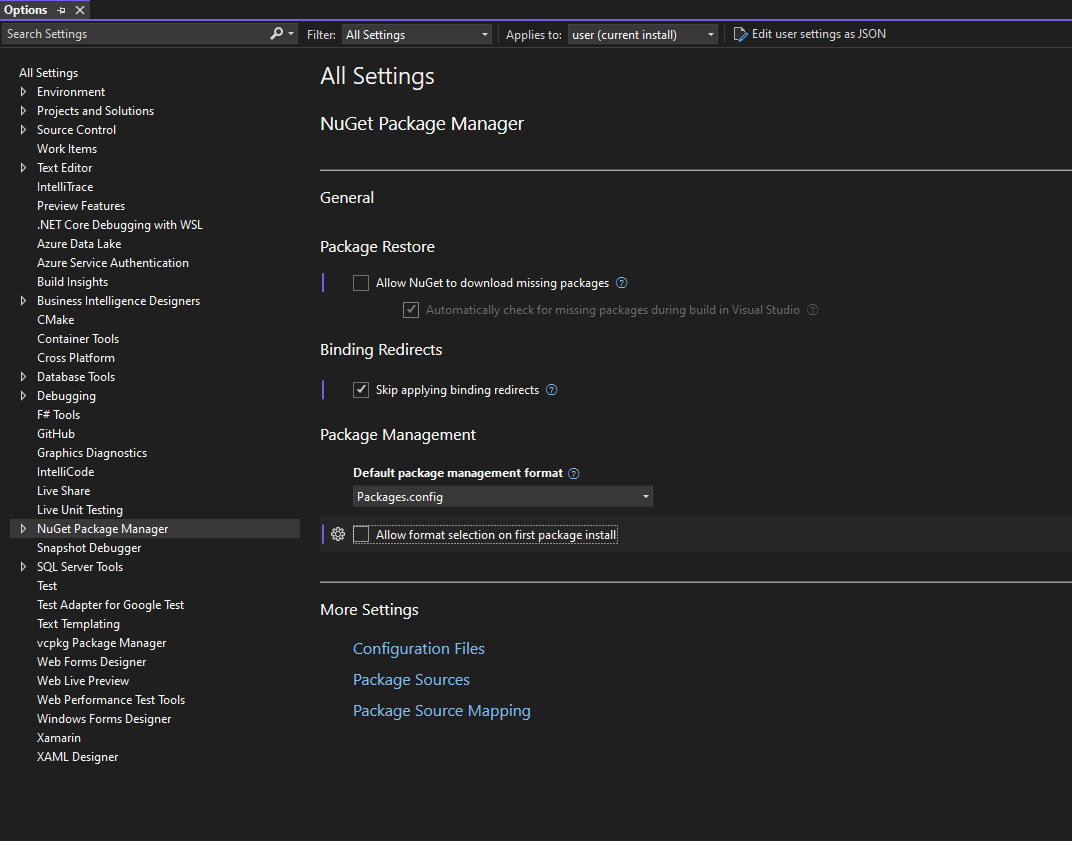
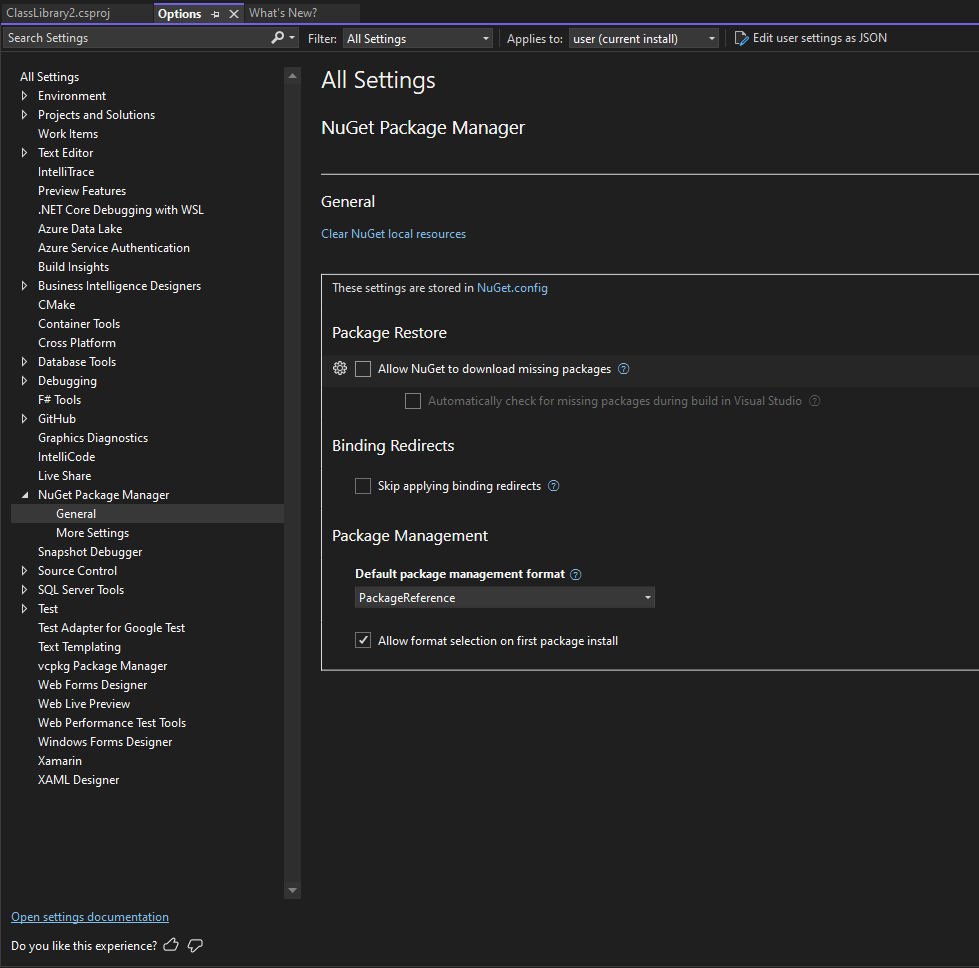
Mention Clear Locals command and add mockups/edits

diff --git a/accepted/2024/unified-vs-settings.md b/accepted/2024/unified-vs-settings.md
@@ -8,8 +8,8 @@
 
 <!-- One-paragraph description of the proposal. -->
 
-Visual Studio Options are moving to a new user interface called "Unified Settings".
-The Visual Studio (VS) IDE team is responsible for the UI controls, and individual product teams will maintain a JSON file declaring the structure and data types for settings in the IDE.
+Visual Studio Options are moving to a new user interface called "Unified Settings" (abbr. USX).
+The Visual Studio (VS) IDE team is responsible for the UI controls, and individual product teams will maintain a JSON file declaring the structure and data types for settings in the IDE in addition to any custom commands.
 
 ## Motivation
 
@@ -17,9 +17,10 @@ The Visual Studio (VS) IDE team is responsible for the UI controls, and individu
 
 The Visual Studio Editor team created Unified Settings to make the configuration experience have a Consistent UI, scoping capabilities, and the ability to share and sync settings across devices.
 A blog was published to expand on this motivation and collect feedback from the community, [Unified Settings: Share Your Feedback](https://devblogs.microsoft.com/visualstudio/unifiedsettings/).
+This is currently a VS Preview-only feature.
 
 For NuGet, the improved maintainability will reduce ad-hoc UI code and allow the team to focus on the effect of the settings, and not the UI around the settings.
-I expect significantly less usability and accessibility issues around NuGet's VS Options because of this standardized UI.
+The expectation is significantly less usability and accessibility issues around NuGet's VS Options because of this standardized UI.
 
 ## Explanation
 
@@ -28,20 +29,97 @@ I expect significantly less usability and accessibility issues around NuGet's VS
 <!-- Explain the proposal as if it were already implemented and you're teaching it to another person. -->
 <!-- Introduce new concepts, functional designs with real life examples, and low-fidelity mockups or  pseudocode to show how this proposal would look. -->
 
-NuGet's repository will maintain a `registration.json` file to declare all VS Settings, including localizible names, data types, default values, and any dependencies among the values of other settings.
+All of NuGet's legacy VS Options pages will be migrated to USX.
+The General page will be tackled first, and is the main scope for this spec.
 
-A prototype of the NuGet General Options page in Unified Settings is shown below.
-Note that the `Clear NuGet Cache` button is missing at this time.
-![Screenshot showing a prototype of the NuGet General Options page in Unified Settings](../../meta/resources/UnifiedSettings/general-prototype.png)
+Normally, USX manages user settings in a custom JSON settings file; however, NuGet will instead continue to use our custom `NuGet.Config` to store settings values.
+We will maintain interoperability with our backing store by implementing an External Settings API provided by the VS IDE team.
 
-Since NuGet uses a custom `nuget.config` to store settings values, a custom data store will be indicated by using an External Settings API provided by the VS IDE team.
+A mockup of the NuGet General Options page in Unified Settings is shown below.
+
+![Mockup showing a prototype of the NuGet General Options page in Unified Settings](../../meta/resources/UnifiedSettings/general-prototype.png)
+
+### Settings are stored in NuGet.Config
+
+Since the `NuGet.Config` is an external backing store, NuGet.Client can specify explanatory text and a hyperlink button that points to its location.
+The text shown in the mockup is "These settings are stored in NuGet.config".
+Pressing the hyperlink button on `NuGet.Config` will open the file in the VS editor.
+
+Given that there can be multiple `NuGet.Config` files, the plan for now is to have it open the first `NuGet.Config` which is closest to the solution, which would be the first file listed in the "Configuration Files" page of NuGet's legacy settings, today.
+
+#### Clear Local NuGet Resources
+
+The `Clear local NuGet resources` button from legacy options will be shown as a hyperlink button in USX under the root section's title ("General").
+
+Pressing the hyperlink button will open a modal dialog window indicating the status of the operation of clearing the resources from disk.
+The mockup below shows the button and the effect of pressing it:
+
+![Mockup showing the Clear local NuGet resources hyperlink button and the modal dialog which opens once pressed](../../meta/resources/UnifiedSettings/clear-command-dialog.png)
+
+#### Error messages
+
+When the `NuGet.Config` has an invalid value, the UI will show a blank selection, or unchecked checkbox, and will be accompanied by a simple error message indicating that the value in the backing store was somehow invalid.
+
+Any action taken inside the USX page will overwrite that invalid value in the backing store (`NuGet.Config`) according to `NuGet.Configuration`.
+
+For any fatal errors, such as unable to load the `NuGet.Config` at all due to parsing errors, or similar, then an error message will be shown under the "General" section label.
+
+#### Help icons
+
+Each UI element in USX can have a help link attached.
+In the mockup, these are shown as a circled `?` icon.
+Pressing one of these opens the relevant Documentation page, and is anchored to the corresponding section in the document.
 
 ### Technical explanation
 
 <!-- Explain the proposal in sufficient detail with implementation details, interaction models, and clarification of corner cases. -->
 
-### External API
-...
+### Registration
+
+The NuGet.Client repository will maintain a `registration.json` file to declare all VS Settings, including localizible names, data types, default values, command implementations, and any dependencies among the values of other settings.
+
+The `registration.json` will use the `"type": "external"` mode because our product stores configuration in a custom backing store: One or more `NuGet.Config` files.
+
+### Command: Clear Local Resources
+
+NuGet.Client will create a new modal dialog will be developed to indicate that the Clear Local Resources command is in-progress and has completed.
+The modal dialog will replace our WinForms controls that indicate the same information.
+
+Since USX doesn't support dynamically changing text blocks, the modal is the simplest and most effective form of UI we can adopt, while also allowing us to expand the capabilities of this command in VS in the future.
+
+The invocation of the `LocalsCommandRunner` which is supported by legacy VS settings will be adapted to a USX Command.
+A USX Command invokes a command in VS using the VS SDK and the extensible menu command system.
+Therefore, our Visual Studio Command Table (VSCT) file will be updated with a new command, which executes `LocalsCommandRunner` in the following way:
+
+1. Open a modal dialog window.
+    - State that NuGet resources are being cleared.
+    - Prevent the user from accessing VS components like the Restore or the NuGet Package Manager since this could cause conflicts with the operation of clearing local resources.
+    - Show an indeterminate progress indicator.
+    - A Cancel button cannot be supported at this time.
+    (See Future Possibilities)
+1. Execute `LocalsCommandRunner` in the same manner as legacy VS Settings.
+1. Display text indicating the completion of the command (or any error messages) and a close button on the modal dialog.
+
+### External Settings API
+
+To map each of our registered UI elements in Unified Settings to the `NuGet.Configuration` APIs, we must implement an `IExternalSettingsProvider`.
+USX will invoke the following on our provider:
+- `GetValueAsync` is called by USX when obtaining values from the `NuGet.Configuration`.
+
+- `SetValueAsync` is called by USX when the user has made a change to the setting and it needs to be persisted in the backing store.
+
+The provider will respond to those API calls using the following `NuGet.Configuration` types for retrieving and persisting NuGet Configuration data:
+
+- BindingRedirectBehavior
+- PackageRestoreConsent
+- PackageManagementFormat
+
+Other notes:
+- The provider is exported by providing GUID in the `registration.json`.
+
+- The `ISettings` service will be obtained by the provider using ServiceLocator.
+
+- Any `SettingsChanged` events will invalidate the provider's state and cause USX to repopulate the page's data.
 
 
 ## Drawbacks
@@ -54,7 +132,8 @@ No drawbacks have been identified.
 <!-- Why is this the best design compared to other designs? -->
 <!-- What other designs have been considered and why weren't they chosen? -->
 <!-- What is the impact of not doing this? -->
-No alternatives have been identified.
+- The Clear Local Resources command could first open the modal dialog and provide a "start" button to allow the customer to begin the process of clearing the resources.
+This would be a change from the legacy behavior, but customers may be curious about the new USX experience, and initiate the command by mistake.
 
 ## Prior Art
 
@@ -63,7 +142,7 @@ No alternatives have been identified.
 <!-- What lessons from other communities can we learn from? -->
 <!-- Are there any resources that are relevant to this proposal? -->
 
-The legacy Visual Studio Options for NuGet will serve as a starting point for the migration to Unified Settings.
+To achieve parity with the legacy Visual Studio Options for NuGet, those UI elements and implementation will serve as a starting point for the migration to Unified Settings.
 
 ## Unresolved Questions
 
@@ -77,4 +156,5 @@ No questions have been identified.
 
 <!-- What future possibilities can you think of that this proposal would help with? -->
 
-No future possibilities have been identified.
+- `LocalsCommandRunner` could be enhanced to support Cancellation.
+This would allow the modal dialog shown from our USX command to provide a `Cancel` button in case the user decides not to wait on a large delete operation to complete and block usage of VS.
